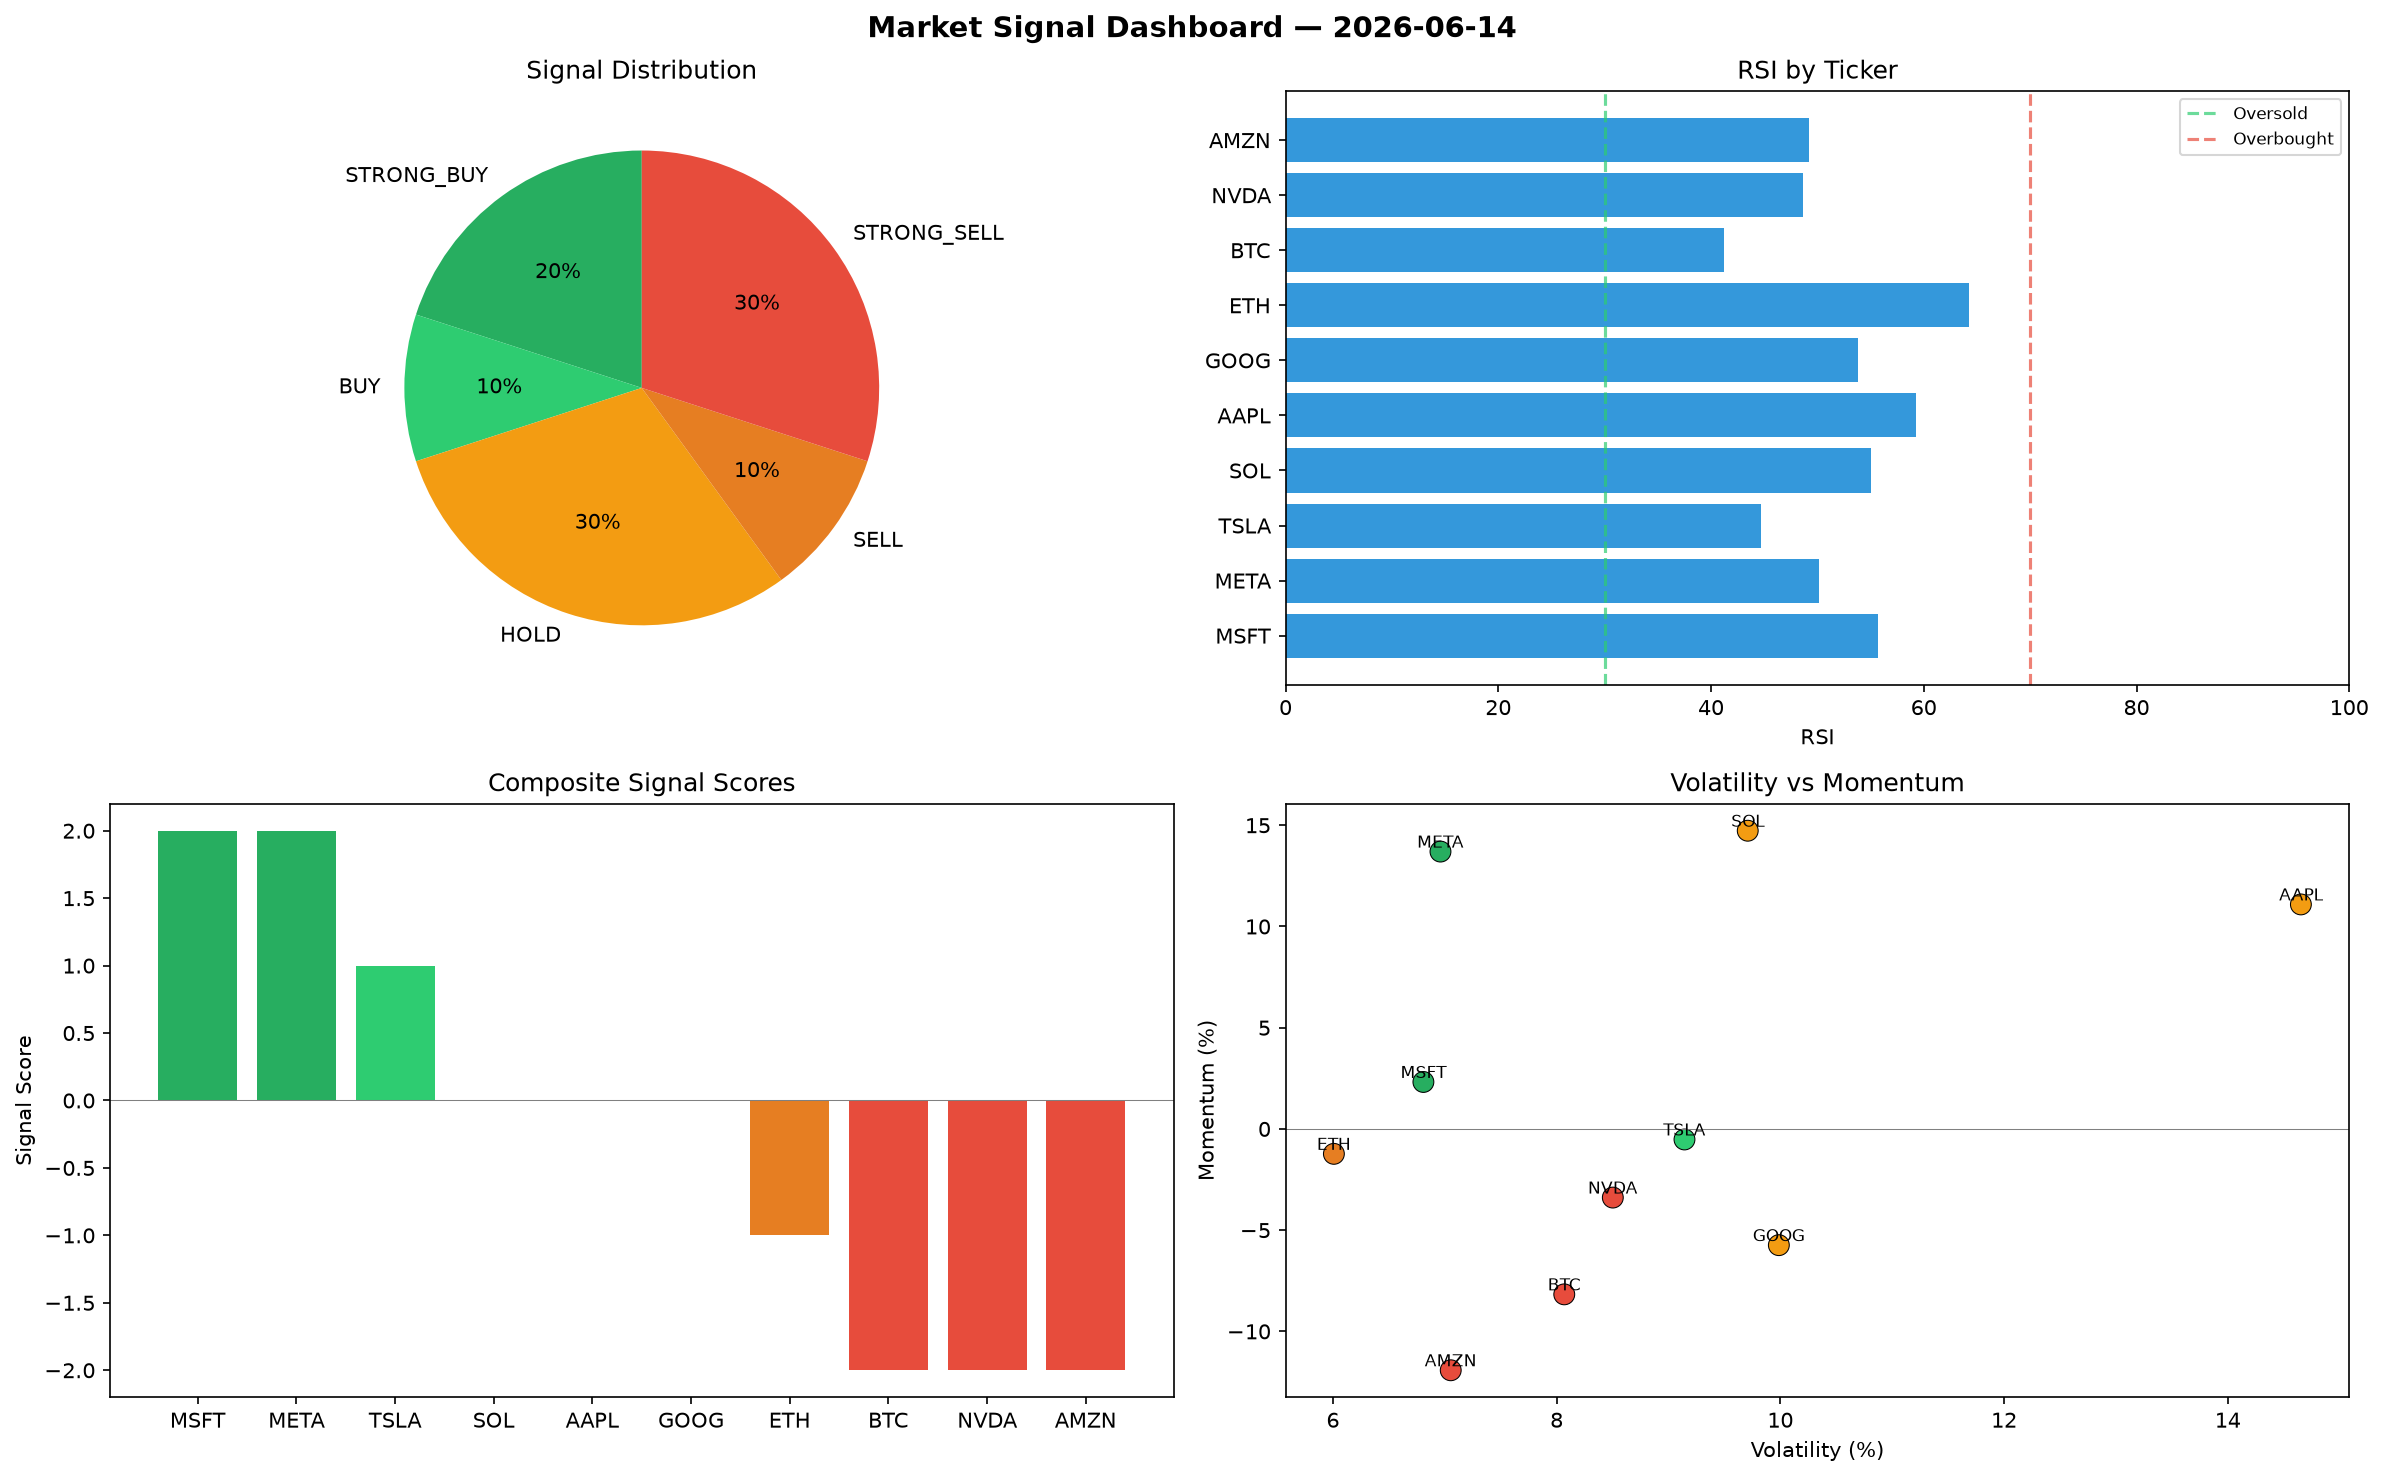
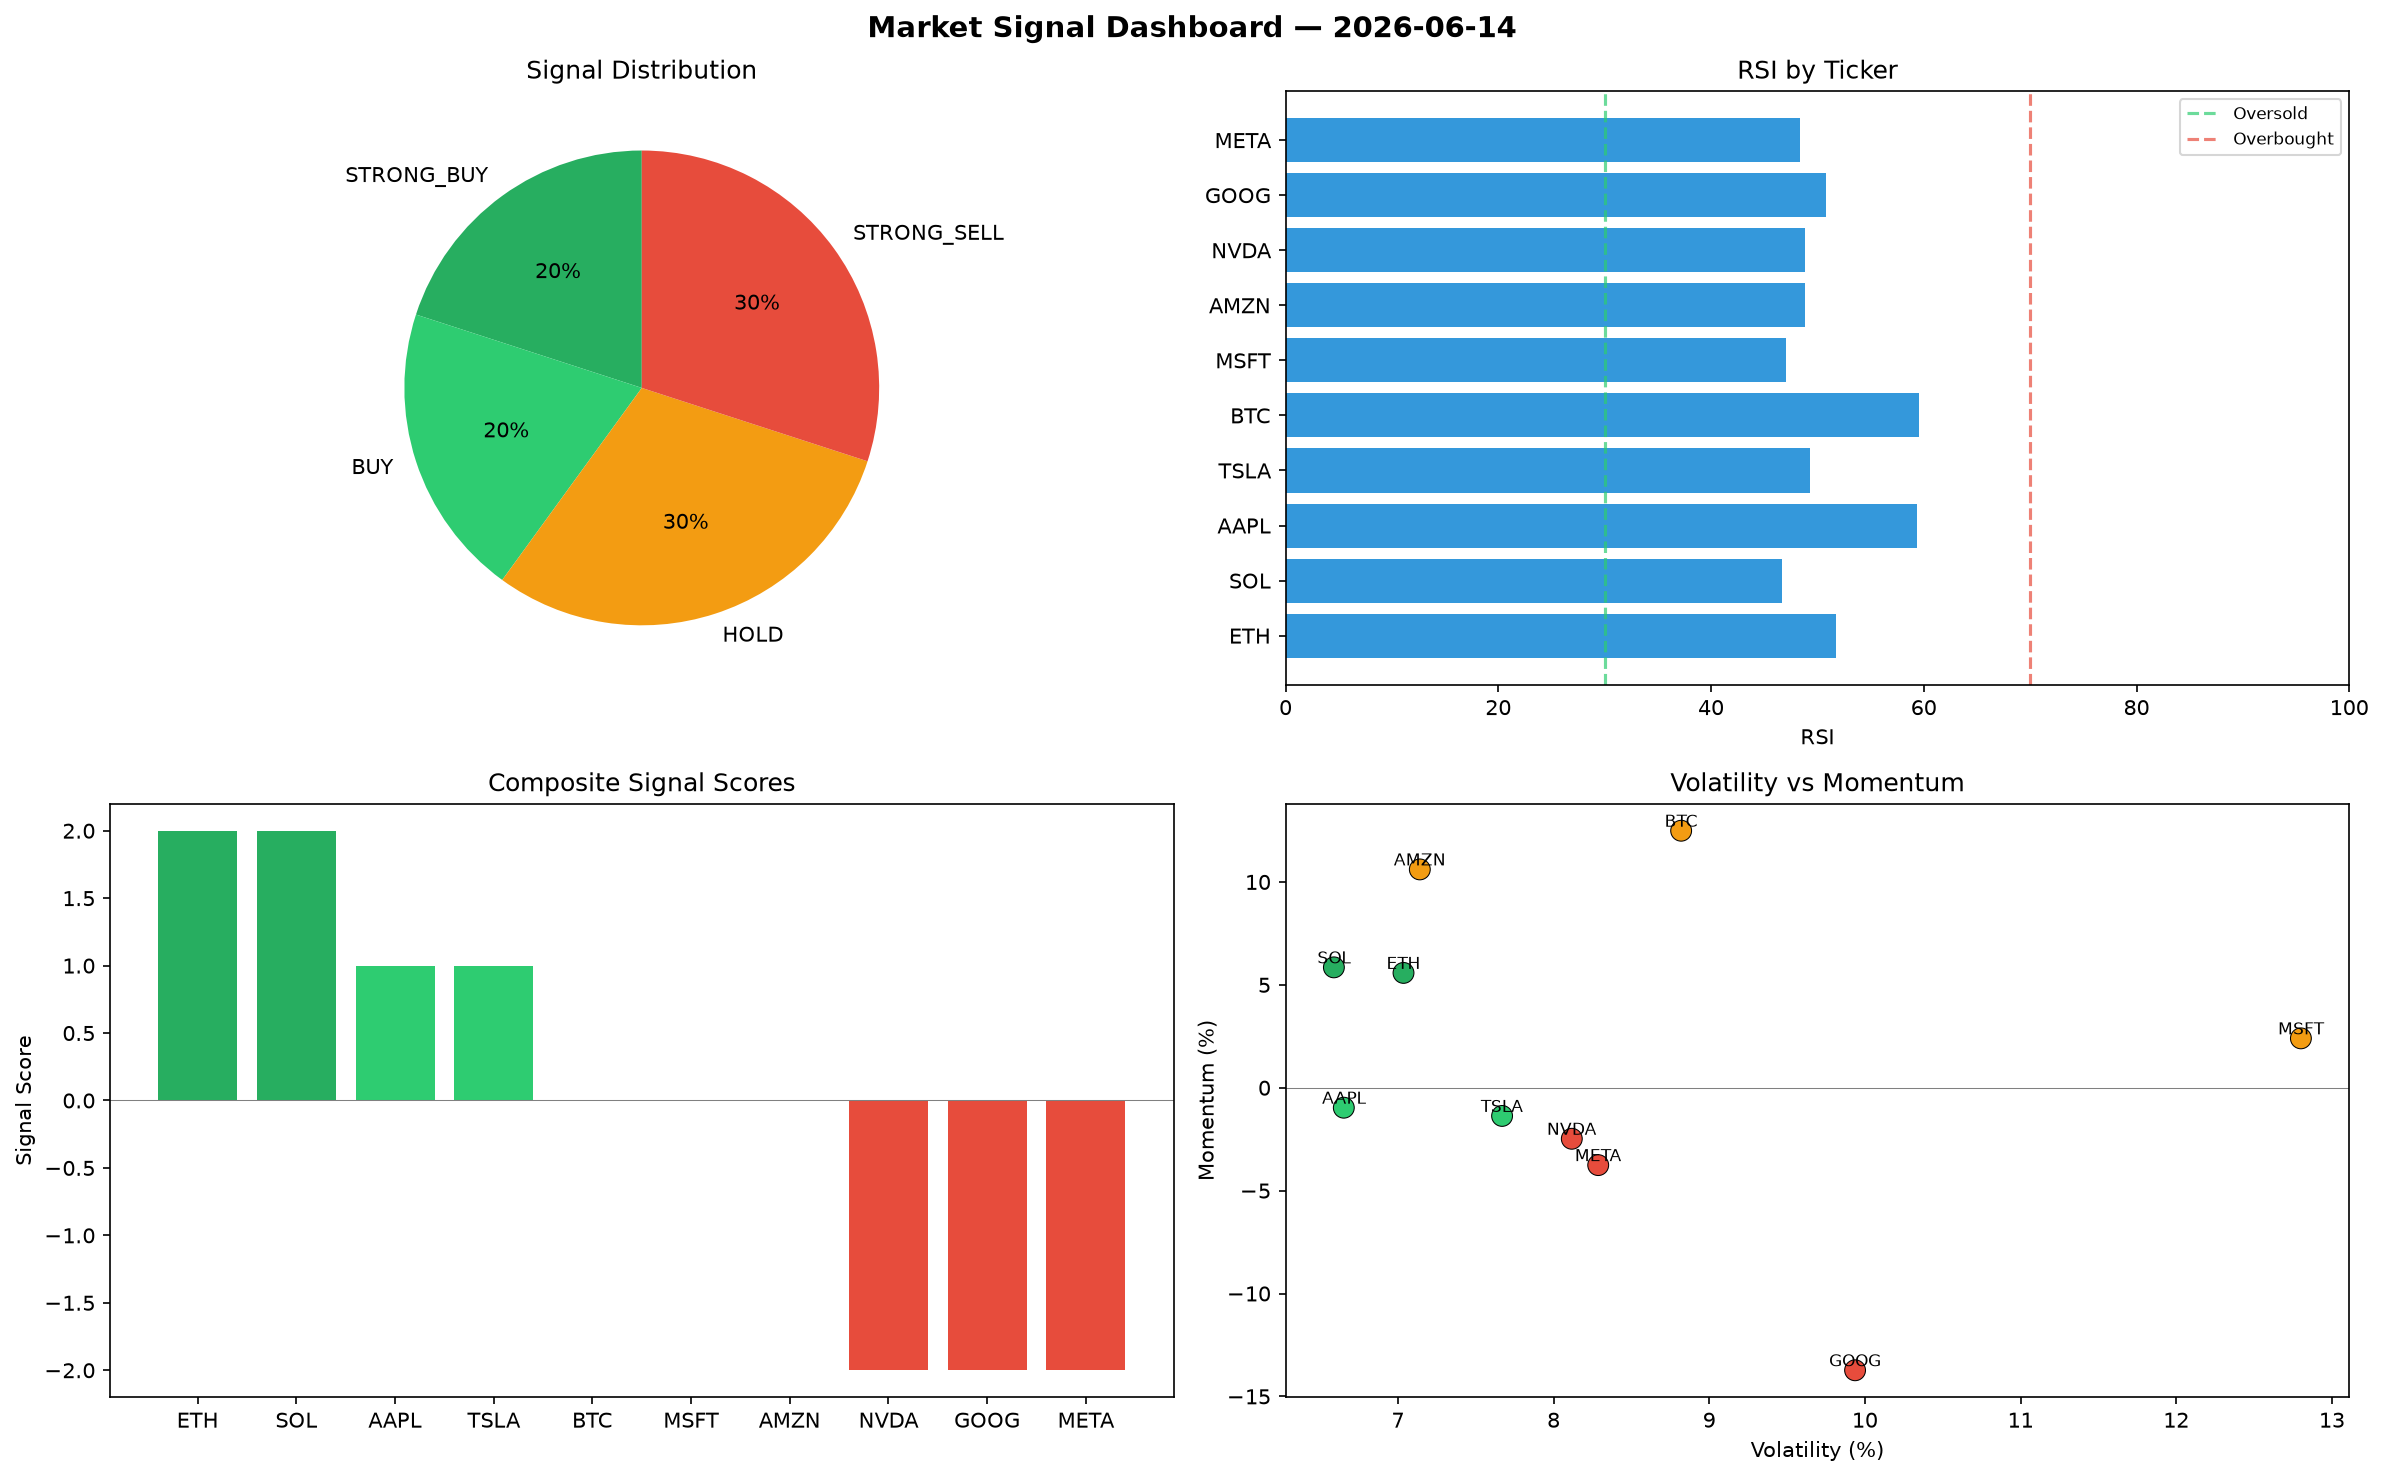
automated-bots: market signals 2026-06-14T11:11

diff --git a/logs/2026-06-14.md b/logs/2026-06-14.md
@@ -1,6 +1,6 @@
 # Market Signal Report — 2026-06-14
 
-**Run ID:** `3d9fb4d4be` | **Buy:** 3 | **Sell:** 4 | **Hold:** 3
+**Run ID:** `f0db4a7cee` | **Buy:** 4 | **Sell:** 3 | **Hold:** 3
 
 ![Dashboard](2026-06-14_dashboard.png)
 
@@ -8,28 +8,28 @@
 
 | Ticker | Price | Signal | Score | RSI | Momentum | Confidence |
 |--------|-------|--------|-------|-----|----------|------------|
-| MSFT | $1843.86 | **STRONG_BUY** | 2 | 55.73 | 0.0232 | 0.5 |
-| META | $679.57 | **STRONG_BUY** | 2 | 50.15 | 0.137 | 0.5 |
-| TSLA | $169.0 | **BUY** | 1 | 44.74 | -0.0052 | 0.25 |
-| SOL | $3716.44 | **HOLD** | 0 | 55.02 | 0.1473 | 0.0 |
-| AAPL | $3363.02 | **HOLD** | 0 | 59.25 | 0.1109 | 0.0 |
-| GOOG | $331.35 | **HOLD** | 0 | 53.78 | -0.0574 | 0.0 |
-| ETH | $2866.42 | **SELL** | -1 | 64.28 | -0.0123 | 0.25 |
-| BTC | $3452.92 | **STRONG_SELL** | -2 | 41.2 | -0.0817 | 0.5 |
-| NVDA | $2130.3 | **STRONG_SELL** | -2 | 48.64 | -0.0339 | 0.5 |
-| AMZN | $3356.48 | **STRONG_SELL** | -2 | 49.25 | -0.1192 | 0.5 |
+| ETH | $2043.59 | **STRONG_BUY** | 2 | 51.72 | 0.0558 | 0.5 |
+| SOL | $335.44 | **STRONG_BUY** | 2 | 46.63 | 0.0585 | 0.5 |
+| AAPL | $2432.5 | **BUY** | 1 | 59.39 | -0.0097 | 0.25 |
+| TSLA | $3776.48 | **BUY** | 1 | 49.26 | -0.0137 | 0.25 |
+| BTC | $194.77 | **HOLD** | 0 | 59.59 | 0.1249 | 0.0 |
+| MSFT | $3889.29 | **HOLD** | 0 | 47.05 | 0.024 | 0.0 |
+| AMZN | $3112.94 | **HOLD** | 0 | 48.88 | 0.1061 | 0.0 |
+| NVDA | $2900.52 | **STRONG_SELL** | -2 | 48.88 | -0.0248 | 0.5 |
+| GOOG | $4571.55 | **STRONG_SELL** | -2 | 50.81 | -0.1373 | 0.5 |
+| META | $3250.02 | **STRONG_SELL** | -2 | 48.33 | -0.0376 | 0.5 |
 
 ## Delta vs Yesterday
 
 | Ticker | Today | Yesterday | Price Change | Signal Changed |
 |--------|-------|-----------|-------------|----------------|
-| MSFT | STRONG_BUY | HOLD | 📉 -59.53% | ⚠ YES |
-| META | STRONG_BUY | STRONG_BUY | 📉 -81.91% | — |
-| TSLA | BUY | HOLD | 📉 -96.24% | ⚠ YES |
-| SOL | HOLD | STRONG_BUY | 📈 115.89% | ⚠ YES |
-| AAPL | HOLD | HOLD | 📈 296.48% | — |
-| GOOG | HOLD | HOLD | 📉 -91.44% | — |
-| ETH | SELL | STRONG_SELL | 📉 -37.02% | ⚠ YES |
-| BTC | STRONG_SELL | SELL | 📈 5.84% | ⚠ YES |
-| NVDA | STRONG_SELL | STRONG_SELL | 📈 300.99% | — |
-| AMZN | STRONG_SELL | STRONG_BUY | 📈 282.22% | ⚠ YES |
+| ETH | STRONG_BUY | STRONG_SELL | 📉 -55.1% | ⚠ YES |
+| SOL | STRONG_BUY | STRONG_BUY | 📉 -80.51% | — |
+| AAPL | BUY | HOLD | 📈 186.78% | ⚠ YES |
+| TSLA | BUY | HOLD | 📉 -15.97% | ⚠ YES |
+| BTC | HOLD | SELL | 📉 -94.03% | ⚠ YES |
+| MSFT | HOLD | HOLD | 📉 -14.64% | — |
+| AMZN | HOLD | STRONG_BUY | 📈 254.48% | ⚠ YES |
+| NVDA | STRONG_SELL | STRONG_SELL | 📈 445.97% | — |
+| GOOG | STRONG_SELL | HOLD | 📈 18.13% | ⚠ YES |
+| META | STRONG_SELL | STRONG_BUY | 📉 -13.47% | ⚠ YES |
